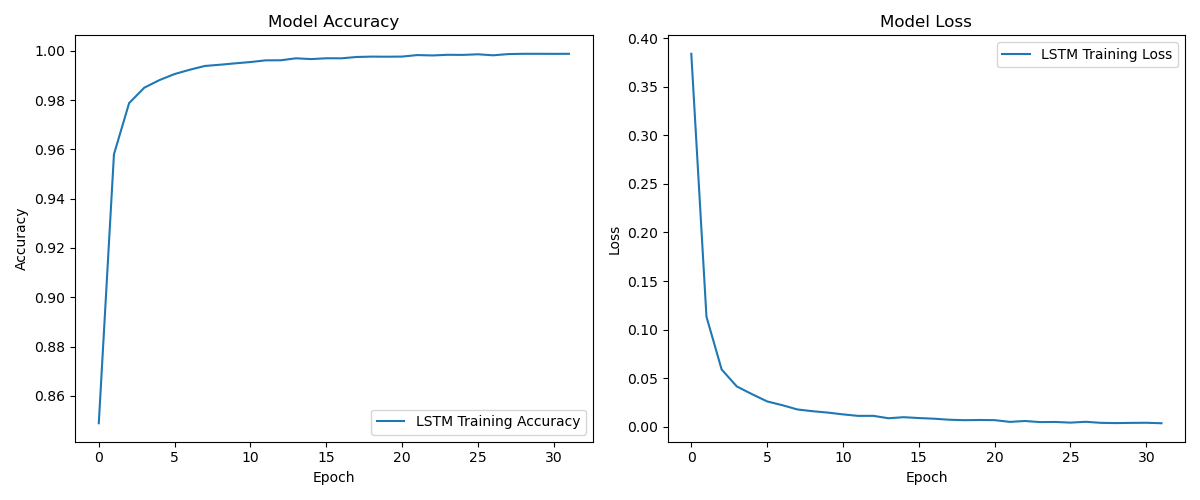
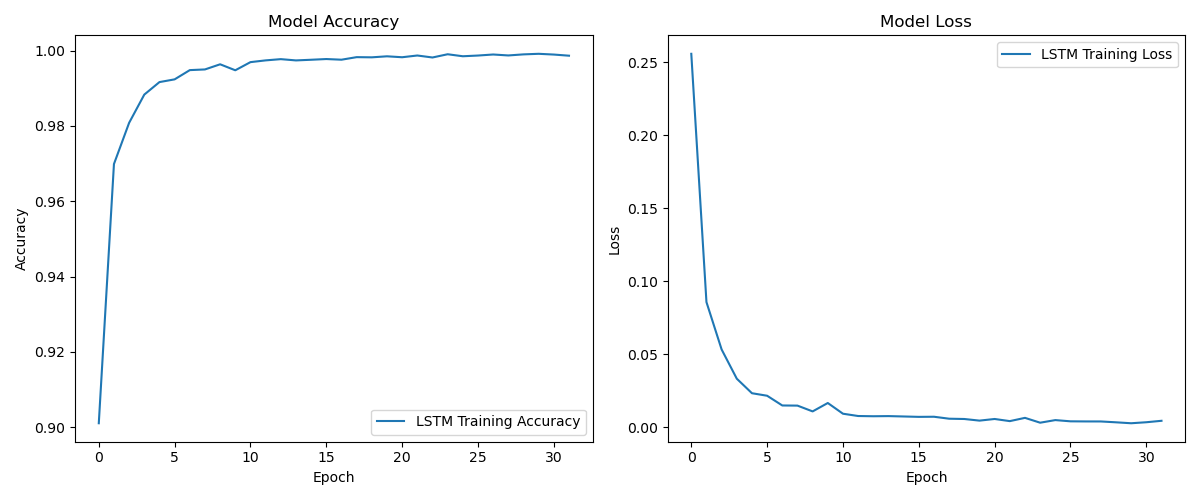
three competing models at 96%, one hyperparam in readme

diff --git a/src/python/training.py b/src/python/training.py
@@ -7,23 +7,20 @@ import sklearn
 import torch
 try:
     import rich.traceback
-    import rich
     from rich import print
 except ImportError:
     print("Rich library not found. Skipping rich features.")
-    rich = None
 from torch.utils.data import DataLoader, TensorDataset
 from sklearn.model_selection import train_test_split
 from sklearn.metrics import confusion_matrix, ConfusionMatrixDisplay
 from build_data import *
 from train_utils import train_model, evaluate_model
-from model import LSTMModel, LSTMRnnModel
+from model import *
 from cyclopts import App
 
 app = App(
     name="MotionMetric Training"
 )
-
 
 ACT_LABELS = ["dws","ups", "wlk", "jog", "std", "sit"]
 TRIAL_CODES = {
@@ -35,17 +32,6 @@ TRIAL_CODES = {
     ACT_LABELS[5]:[5,13]
 }
 
-# Set the random seed for numpy
-np.random.seed(1)
-# Set the random seed for PyTorch
-torch.manual_seed(1)
-if torch.cuda.is_available():
-    torch.cuda.manual_seed(1)
-
-# Check if CUDA is available
-device = torch.device('cuda' if torch.cuda.is_available() else 'cpu')
-print(f"Using device: {device}")
-
 @app.default
 def top(epochs: int,
           lstm_units: int,
@@ -53,12 +39,14 @@ def top(epochs: int,
           batch_size: int = 1,
           lr: float = 0.001,
           w: int = 128,
-          s: int = 10,
+          s: int = 4,
         #   test_size: float = 0.2,
           validation_size: float = 0.2,
           num_columns: int = 3,
           num_classes: int = len(ACT_LABELS),
-          plots_folder='documents/plots'):
+          plots_folder='documents/plots',
+          set_seed: int = 1,
+          model_dir: str | None = None):
     """
     Main function to train the LSTM model.
     
@@ -74,7 +62,27 @@ def top(epochs: int,
         num_columns (int): Number of columns in each window.
         num_classes (int): Number of classes in the dataset.
         plots_folder (str): Folder to save plots.
+        set_seed (int | None): Random seed for reproducibility. If -1, no seed is set.
+        model_dir (str | None): Directory to save the trained model. If None, the model is not saved.
     """
+    
+    # print out the command entered
+    print(f"Training with parameters: epochs={epochs}, batch_size={batch_size}, lstm_units={lstm_units}, dense_units={dense_units}, lr={lr}, w={w}, s={s}, validation_size={validation_size}, num_columns={num_columns}, num_classes={num_classes}")
+    
+    # Check if CUDA is available
+    device = torch.device('cuda' if torch.cuda.is_available() else 'cpu')
+    print(f"Using device: {device}")
+    
+    # Set random seed for reproducibility# # Set the random seed for numpy
+    if set_seed != -1:
+        np.random.seed(set_seed)
+        # Set the random seed for PyTorch
+        torch.manual_seed(set_seed)
+        if torch.cuda.is_available():
+            torch.cuda.manual_seed(set_seed)
+    else:
+        print("-1 set_seed provided, not setting any seed for reproducibility.")
+
 
     ################################################################################################
     # SECTION I: DATA PREPARATION
@@ -167,7 +175,14 @@ def top(epochs: int,
     ################################################################################################
 
     loss, accuracy, predictions, labels = evaluate_model(model, test_loader)
-    print(f"Test Loss: {loss:.4f}, Test Accuracy: {accuracy:.4f}")
+    print(f"Test Loss: {loss:.4f}, Test Accuracy: {accuracy * 100:.2f}%")
+    
+    # save the model if model_dir is provided
+    if model_dir:
+        os.makedirs(model_dir, exist_ok=True)
+        model_path = os.path.join(model_dir, "lstm_model.pth")
+        torch.save(model.state_dict(), model_path)
+        print(f"Model saved to {model_path}")
 
     # Plot the training and validation accuracy curves
     plt.figure(figsize=(12, 5))

diff --git a/src/python/model.py b/src/python/model.py
@@ -75,3 +75,35 @@ class LSTMRnnModel(nn.Module):
         x = self.dense2(x)
         
         return x
+    
+    
+class LSTMModel2(nn.Module):
+    def __init__(self, input_size, lstm_units, dense_units, num_classes, sequence_length=128):
+        super(LSTMModel2, self).__init__()
+        
+        # LSTM layer
+        self.lstm = nn.LSTM(input_size=input_size, 
+                           hidden_size=lstm_units, 
+                           batch_first=True,
+                        #    num_layers=num_classes//2
+                           )
+        
+        # flatten layer
+        self.flatten = nn.Flatten()
+        
+        # Dense layers
+        self.fc1 = nn.Linear(sequence_length * lstm_units, dense_units)
+        self.relu = nn.ReLU()
+        self.fc2 = nn.Linear(dense_units, num_classes)
+        # self.sigmoid = nn.Sigmoid()
+        
+    def forward(self, x):
+        x, _ = self.lstm(x)
+        
+        x = self.flatten(x)
+        
+        x = self.fc1(x)
+        x = self.relu(x)
+        x = self.fc2(x)
+        
+        return x
